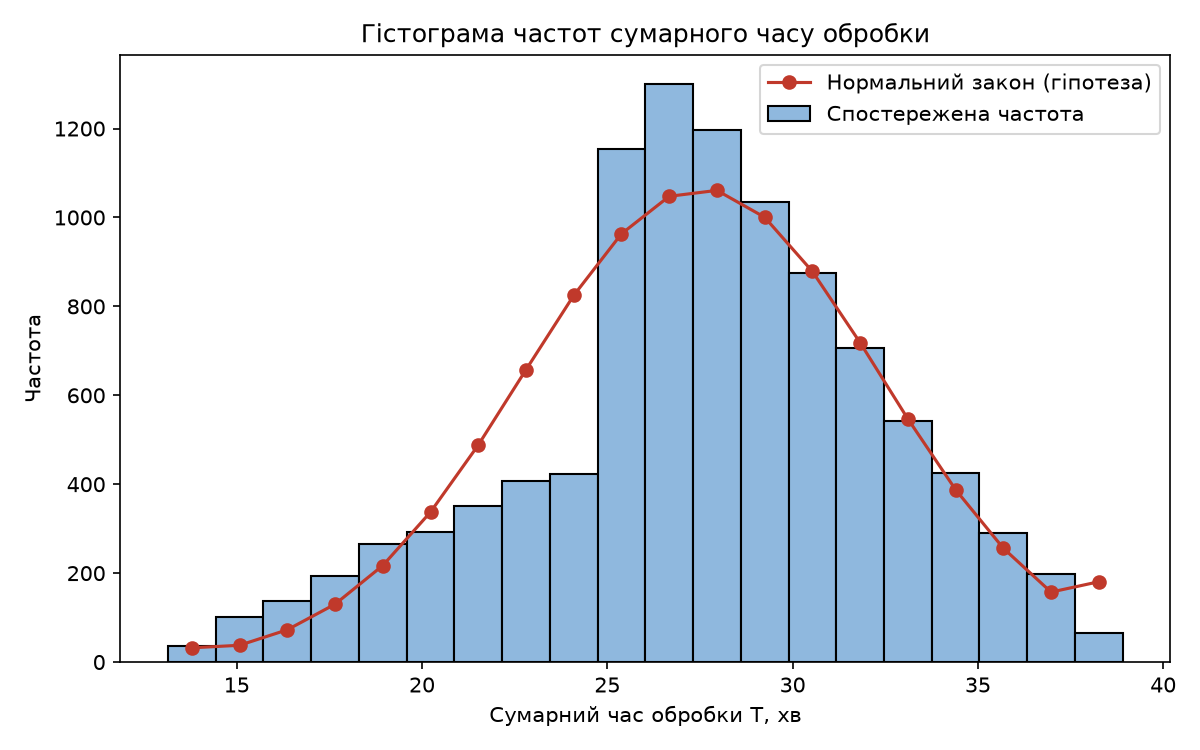
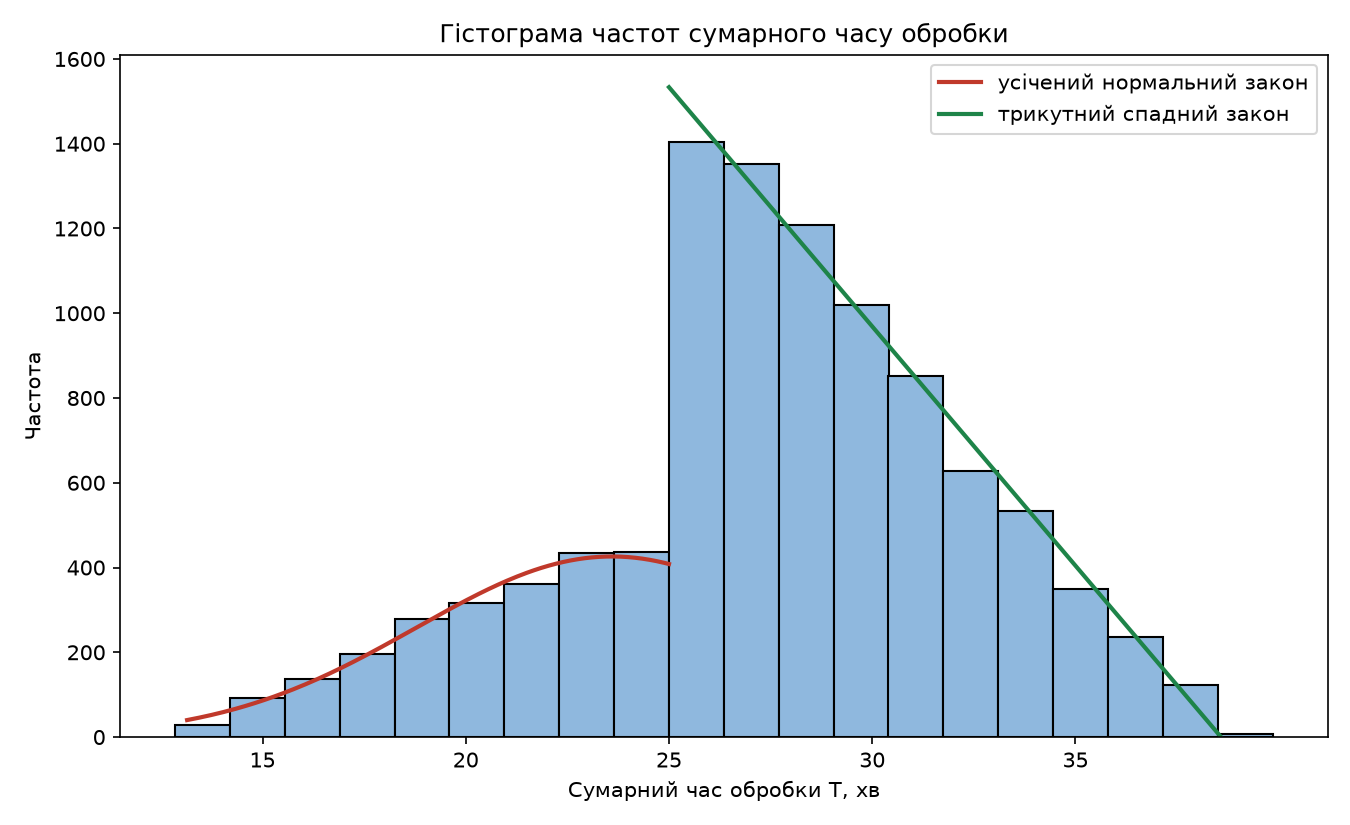
change research

diff --git a/main.py b/main.py
@@ -1,3 +1,4 @@
+import math
 import random
 from statistics import NormalDist, mean, stdev
 
@@ -16,8 +17,8 @@ HARDEN = (10, 6)
 TIME = 100000.0
 LOW = 20.0
 HIGH = 25.0
-BINS = 20
-CHI2_CRITICAL = 27.59
+PLOT_BINS = 20
+ALPHA = 0.05
 SEED = 1
 PLOT_FILE = "histogram_T.png"
 PLOT_FILE_MEASURE = "histogram_T_measure.png"
@@ -84,37 +85,159 @@ def run(m1, m2, cement, harden, time_limit, seed, observer=None):
     }
 
 
-def chi_square_normal(values):
-    n = len(values)
-    dist = NormalDist(mean(values), stdev(values))
-    low, high = min(values), max(values)
-    width = (high - low) / BINS
-    counts = [0] * BINS
-    for v in values:
-        counts[min(BINS - 1, int((v - low) / width))] += 1
-    expected = []
-    for i in range(BINS):
-        left = 0.0 if i == 0 else dist.cdf(low + i * width)
-        right = 1.0 if i == BINS - 1 else dist.cdf(low + (i + 1) * width)
-        expected.append(n * (right - left))
-    chi2 = sum((o - e) ** 2 / e for o, e in zip(counts, expected))
-    return low, width, counts, expected, chi2, BINS - 3
+def chi2_critical(dof, alpha):
+    def lower(a, x):
+        if x <= 0:
+            return 0.0
+        if x < a + 1:
+            term = total = 1.0 / a
+            n = a
+            while abs(term) > 1e-14 * abs(total):
+                n += 1
+                term *= x / n
+                total += term
+            return total * math.exp(-x + a * math.log(x) - math.lgamma(a))
+        b = x + 1 - a
+        c = 1e300
+        d = 1 / b
+        h = d
+        for i in range(1, 500):
+            an = -i * (i - a)
+            b += 2
+            d = an * d + b
+            d = 1 / (d if abs(d) > 1e-300 else 1e-300)
+            c = b + an / c
+            h *= d * c
+        return 1 - h * math.exp(-x + a * math.log(x) - math.lgamma(a))
+
+    low, high = 0.0, 200.0
+    for _ in range(100):
+        mid = (low + high) / 2
+        if lower(dof / 2, mid / 2) < 1 - alpha:
+            low = mid
+        else:
+            high = mid
+    return (low + high) / 2
 
 
-def plot_histogram(low, width, counts, expected, path):
-    centers = [low + (i + 0.5) * width for i in range(BINS)]
-    plt.figure(figsize=(8, 5))
+def fit_truncated_normal(values, low, high):
+    nd = NormalDist()
+
+    def minus_log_likelihood(m, s):
+        if s <= 0.3:
+            return float("inf")
+        z = nd.cdf((high - m) / s) - nd.cdf((low - m) / s)
+        if z <= 1e-12:
+            return float("inf")
+        return len(values) * math.log(s * z) + sum((v - m) ** 2 for v in values) / (
+            2 * s * s
+        )
+
+    m = mean(values)
+    s = stdev(values)
+    best = minus_log_likelihood(m, s)
+    step = s / 2
+    while step > 1e-5:
+        improved = False
+        for dm, ds in ((step, 0), (-step, 0), (0, step), (0, -step)):
+            value = minus_log_likelihood(m + dm, s + ds)
+            if value < best:
+                best, m, s, improved = value, m + dm, s + ds, True
+        if not improved:
+            step /= 2
+    return m, s
+
+
+def identify_left(values):
+    low = min(values)
+    m, s = fit_truncated_normal(values, low, HIGH)
+    nd = NormalDist(m, s)
+    z = nd.cdf(HIGH) - nd.cdf(low)
+    return {
+        "name": "усічений нормальний",
+        "text": f"μ = {m:.2f}, σ = {s:.2f}",
+        "low": low,
+        "high": HIGH,
+        "pdf": lambda x: nd.pdf(x) / z,
+        "cdf": lambda x: min(1.0, max(0.0, (nd.cdf(x) - nd.cdf(low)) / z)),
+    }
+
+
+def identify_right(values):
+    low = HIGH
+    high = low + 3 * (mean(values) - low)
+    return {
+        "name": "трикутний спадний",
+        "text": f"b = {high:.2f}",
+        "low": low,
+        "high": high,
+        "pdf": lambda x: 2 * (high - x) / (high - low) ** 2,
+        "cdf": lambda x: (
+            0.0
+            if x <= low
+            else 1.0 if x >= high else 1 - ((high - x) / (high - low)) ** 2
+        ),
+    }
+
+
+def plot_bins(totals):
+    width = (max(totals) - min(totals)) / PLOT_BINS
+    while True:
+        width = math.ceil(width * 20 - 1e-9) / 20
+        left_bins = math.ceil((HIGH - min(totals)) / width)
+        right_bins = math.ceil((max(totals) - HIGH) / width)
+        if left_bins + right_bins <= PLOT_BINS:
+            break
+        width += 0.05
+    start = HIGH - left_bins * width
+    edges = [start + i * width for i in range(left_bins + right_bins + 1)]
+    counts = [0] * (len(edges) - 1)
+    for t in totals:
+        counts[min(len(counts) - 1, int((t - start) / width))] += 1
+    return edges, counts, width
+
+
+def goodness_of_fit(part, n_part, edges, counts, side):
+    if side == "left":
+        picked = [i for i in range(len(counts)) if edges[i + 1] <= HIGH + 1e-9]
+    else:
+        picked = [i for i in range(len(counts)) if edges[i] >= HIGH - 1e-9]
+    bounds = [edges[i] for i in picked] + [edges[picked[-1] + 1]]
+    if side == "left":
+        bounds[0] = -math.inf
+    else:
+        bounds[-1] = math.inf
+    observed = [counts[i] for i in picked]
+    expected = [
+        n_part * (part["cdf"](bounds[i + 1]) - part["cdf"](bounds[i]))
+        for i in range(len(picked))
+    ]
+    while expected[-1] < 5:
+        expected[-2] += expected.pop()
+        observed[-2] += observed.pop()
+    while expected[0] < 5:
+        expected[1] += expected.pop(0)
+        observed[1] += observed.pop(0)
+    chi2 = sum((o - e) ** 2 / e for o, e in zip(observed, expected))
+    return chi2, len(observed)
+
+
+def plot_identification(totals, left, right, edges, counts, width, path):
+    n_left = sum(1 for t in totals if t <= HIGH)
+    n_right = len(totals) - n_left
+    plt.figure(figsize=(9, 5.5))
     plt.bar(
-        centers,
+        [e + width / 2 for e in edges[:-1]],
         counts,
         width=width,
         edgecolor="black",
         color="#8fb8de",
-        label="Спостережена частота",
     )
-    plt.plot(
-        centers, expected, "o-", color="#c0392b", label="Нормальний закон (гіпотеза)"
-    )
+    for part, count, color in ((left, n_left, "#c0392b"), (right, n_right, "#1e8449")):
+        xs = [part["low"] + (part["high"] - part["low"]) * i / 200 for i in range(201)]
+        ys = [count * width * part["pdf"](x) for x in xs]
+        plt.plot(xs, ys, color=color, linewidth=2, label=f"{part['name']} закон")
+    plt.xticks(range(math.ceil(edges[0] / 5) * 5, int(edges[-1]) + 1, 5))
     plt.xlabel("Сумарний час обробки T, хв")
     plt.ylabel("Частота")
     plt.title("Гістограма частот сумарного часу обробки")
@@ -126,6 +249,28 @@ def plot_histogram(low, width, counts, expected, path):
 
 def yes_no(value):
     return "так" if value else "ні"
+
+
+def report_part(title, part, n_part, edges, counts, side, parameters):
+    chi2, intervals = goodness_of_fit(part, n_part, edges, counts, side)
+    dof = intervals - 1 - parameters
+    critical = chi2_critical(dof, ALPHA)
+    print(f"{title}: {part['name']} закон, {part['text']}")
+    print(
+        f"  інтервалів = {intervals}, хі-квадрат = {chi2:.2f}, ступенів свободи = {dof}, критичне ({ALPHA}) = {critical:.2f}, прийнято = {yes_no(chi2 < critical)}"
+    )
+
+
+def identification(totals, path):
+    left_values = [t for t in totals if t <= HIGH]
+    right_values = [t for t in totals if t > HIGH]
+    left = identify_left(left_values)
+    right = identify_right(right_values)
+    edges, counts, width = plot_bins(totals)
+    report_part(f"T ≤ {HIGH:g}", left, len(left_values), edges, counts, "left", 2)
+    report_part(f"T > {HIGH:g}", right, len(right_values), edges, counts, "right", 1)
+    plot_identification(totals, left, right, edges, counts, width, path)
+    print(f"гістограму збережено у файл {path}")
 
 
 def characteristics(cement, harden, path):
@@ -147,16 +292,7 @@ def characteristics(cement, harden, path):
     print(f"перший сорт не менше 90%      = {yes_no(first_sort >= 0.9)}")
     print(f"T середнє                     = {mean(totals):.4f}")
     print(f"T середнє квадратичне відхил. = {stdev(totals):.4f}")
-    low, width, counts, expected, chi2, dof = chi_square_normal(totals)
-    print(
-        f"гіпотеза: нормальний закон з μ = {mean(totals):.2f}, σ = {stdev(totals):.2f}, {BINS} інтервалів"
-    )
-    print(
-        f"хі-квадрат = {chi2:.2f}, ступенів свободи = {dof}, критичне (0.05) = {CHI2_CRITICAL}"
-    )
-    print(f"гіпотезу прийнято             = {yes_no(chi2 < CHI2_CRITICAL)}")
-    plot_histogram(low, width, counts, expected, path)
-    print(f"гістограму збережено у файл {path}")
+    identification(totals, path)
 
 
 if __name__ == "__main__":
